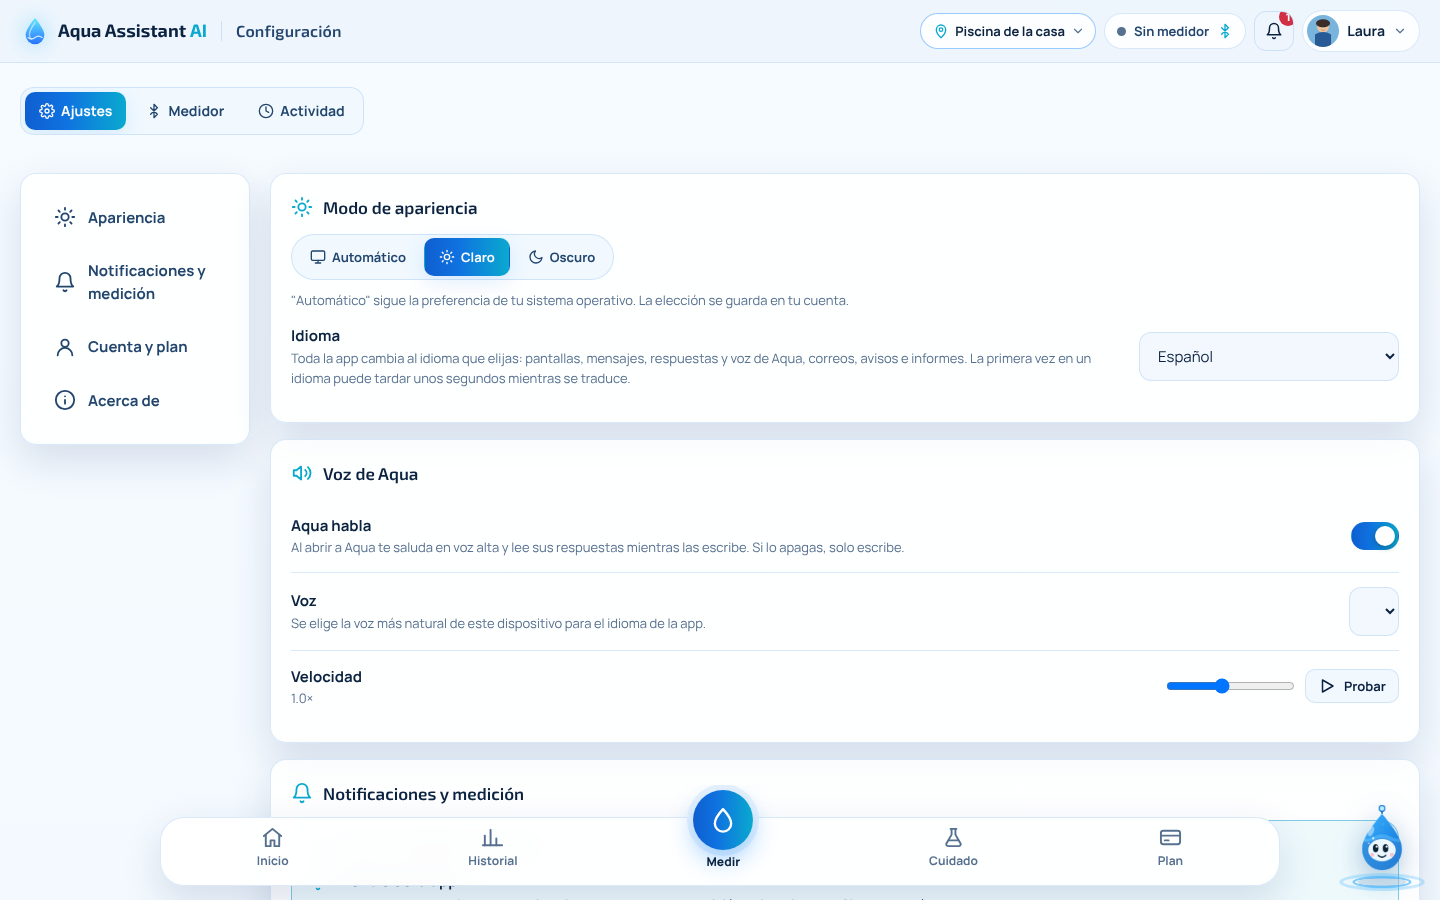
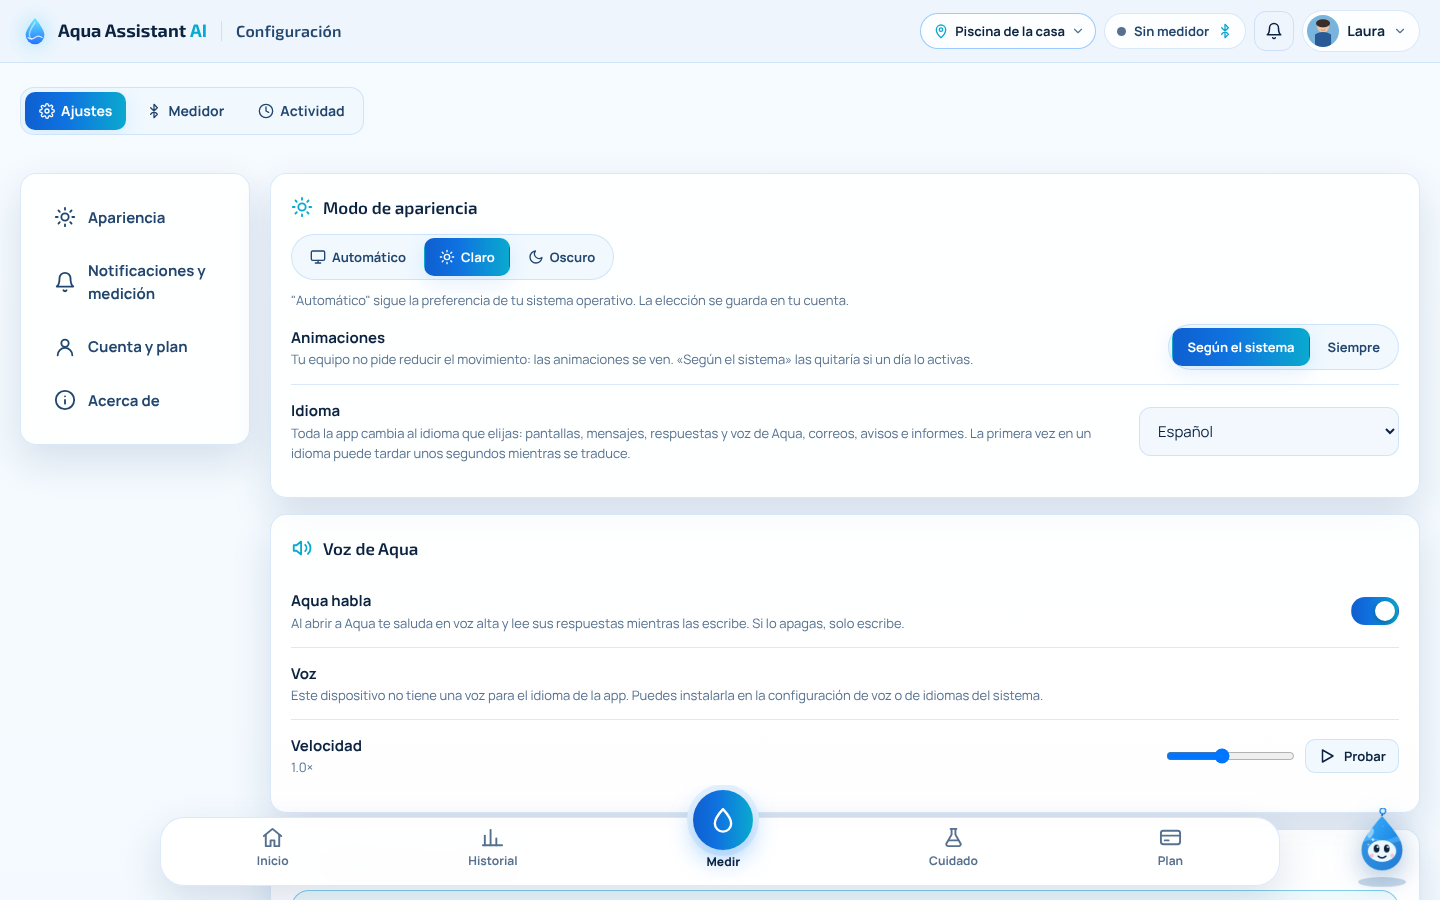
Contraste de la ventana de alarma, RNF-06 al día y MockUps de Configuración
«Es peligroso» y la hora se leen en el color de texto (con borde rojo a la izquierda) para cumplir el contraste. RNF-06 describe los cuatro repositorios y las pruebas que corre GitHub Actions. MockUp21 y MockUp44 muestran Animaciones y la alarma.

diff --git a/assets/css/Components.css b/assets/css/Components.css
@@ -212,11 +212,11 @@ img.avatar { object-fit: cover; background: var(--surface-2); }
 .alarm-modal .modal-head h2 { display: flex; align-items: center; gap: 8px; color: var(--crit); }
 .alarm-modal .modal-head h2 svg { width: 26px; height: 26px; flex: none; }
 .alarm-box { display: flex; gap: 14px; align-items: flex-start; padding: 14px; border-radius: 14px; background: var(--warn-bg); border: 1px solid color-mix(in srgb, var(--warn) 45%, transparent); }
-.alarm-box.danger { background: var(--crit-bg); border-color: color-mix(in srgb, var(--crit) 45%, transparent); }
+.alarm-box.danger { background: var(--crit-bg); border-color: color-mix(in srgb, var(--crit) 45%, transparent); border-left: 6px solid var(--crit); }
 .alarm-box p { margin: 6px 0; line-height: 1.5; }
 .alarm-face { width: 64px; height: 64px; flex: none; animation: alarm-shake .5s ease-in-out infinite; }
-.alarm-level { font-size: 17px; color: var(--warn); }
-.alarm-box.danger .alarm-level { color: var(--crit); }
+.alarm-level { font-size: 17px; color: var(--text); }
+.alarm-box .muted { color: var(--text-soft); }
 .alarm-tap { display: flex; gap: 8px; align-items: center; margin-top: 12px; }
 .alarm-tap svg { width: 18px; height: 18px; flex: none; }
 .alert-item.alteration strong { color: var(--crit); }

diff --git a/docs/Requerimientos.md b/docs/Requerimientos.md
@@ -768,7 +768,7 @@ Estado: **Hecho** = implementado y probado en la aplicación publicada; **Parcia
 
 **Como** desarrollador del proyecto, **quiero** un código organizado, documentado y con pruebas automáticas, **para** cambiarlo sin romper lo que funciona.
 
-**Descripción.** Backend Spring Boot en capas (controlador, servicio, repositorio) organizado por módulo, con catálogo de patrones de diseño (docs/DesignPatterns.md) y migraciones Flyway. Pruebas automáticas: backend con JUnit (H2), frontend con node:test, y el firmware del medidor con pruebas en el computador; GitHub Actions las ejecuta.
+**Descripción.** Cuatro repositorios: el frontend (HTML, CSS y JavaScript con módulos, sin frameworks), el backend y el servicio de IA en Spring Boot por capas (controlador, servicio, repositorio) organizados por módulo, y la base de datos (DBPatSft), cuyas migraciones Flyway GitHub Actions prueba en una base vacía y aplica a Neon. Catálogo de patrones de diseño (docs/DesignPatterns.md del backend). Pruebas automáticas: backend (111) y servicio de IA (119) con JUnit y H2, frontend (56) con node:test y el firmware del medidor con pruebas en el computador; GitHub Actions las ejecuta en cada cambio.
 
 **Criterios de aceptación**
 

diff --git a/docs/issues/36-RNF-06.md b/docs/issues/36-RNF-06.md
@@ -7,7 +7,7 @@
 
 ## Descripción
 
-Backend Spring Boot en capas (controlador, servicio, repositorio) organizado por módulo, con catálogo de patrones de diseño (docs/DesignPatterns.md) y migraciones Flyway. Pruebas automáticas: backend con JUnit (H2), frontend con node:test, y el firmware del medidor con pruebas en el computador; GitHub Actions las ejecuta.
+Cuatro repositorios: el frontend (HTML, CSS y JavaScript con módulos, sin frameworks), el backend y el servicio de IA en Spring Boot por capas (controlador, servicio, repositorio) organizados por módulo, y la base de datos (DBPatSft), cuyas migraciones Flyway GitHub Actions prueba en una base vacía y aplica a Neon. Catálogo de patrones de diseño (docs/DesignPatterns.md del backend). Pruebas automáticas: backend (111) y servicio de IA (119) con JUnit y H2, frontend (56) con node:test y el firmware del medidor con pruebas en el computador; GitHub Actions las ejecuta en cada cambio.
 
 ## Criterios de aceptación
 
